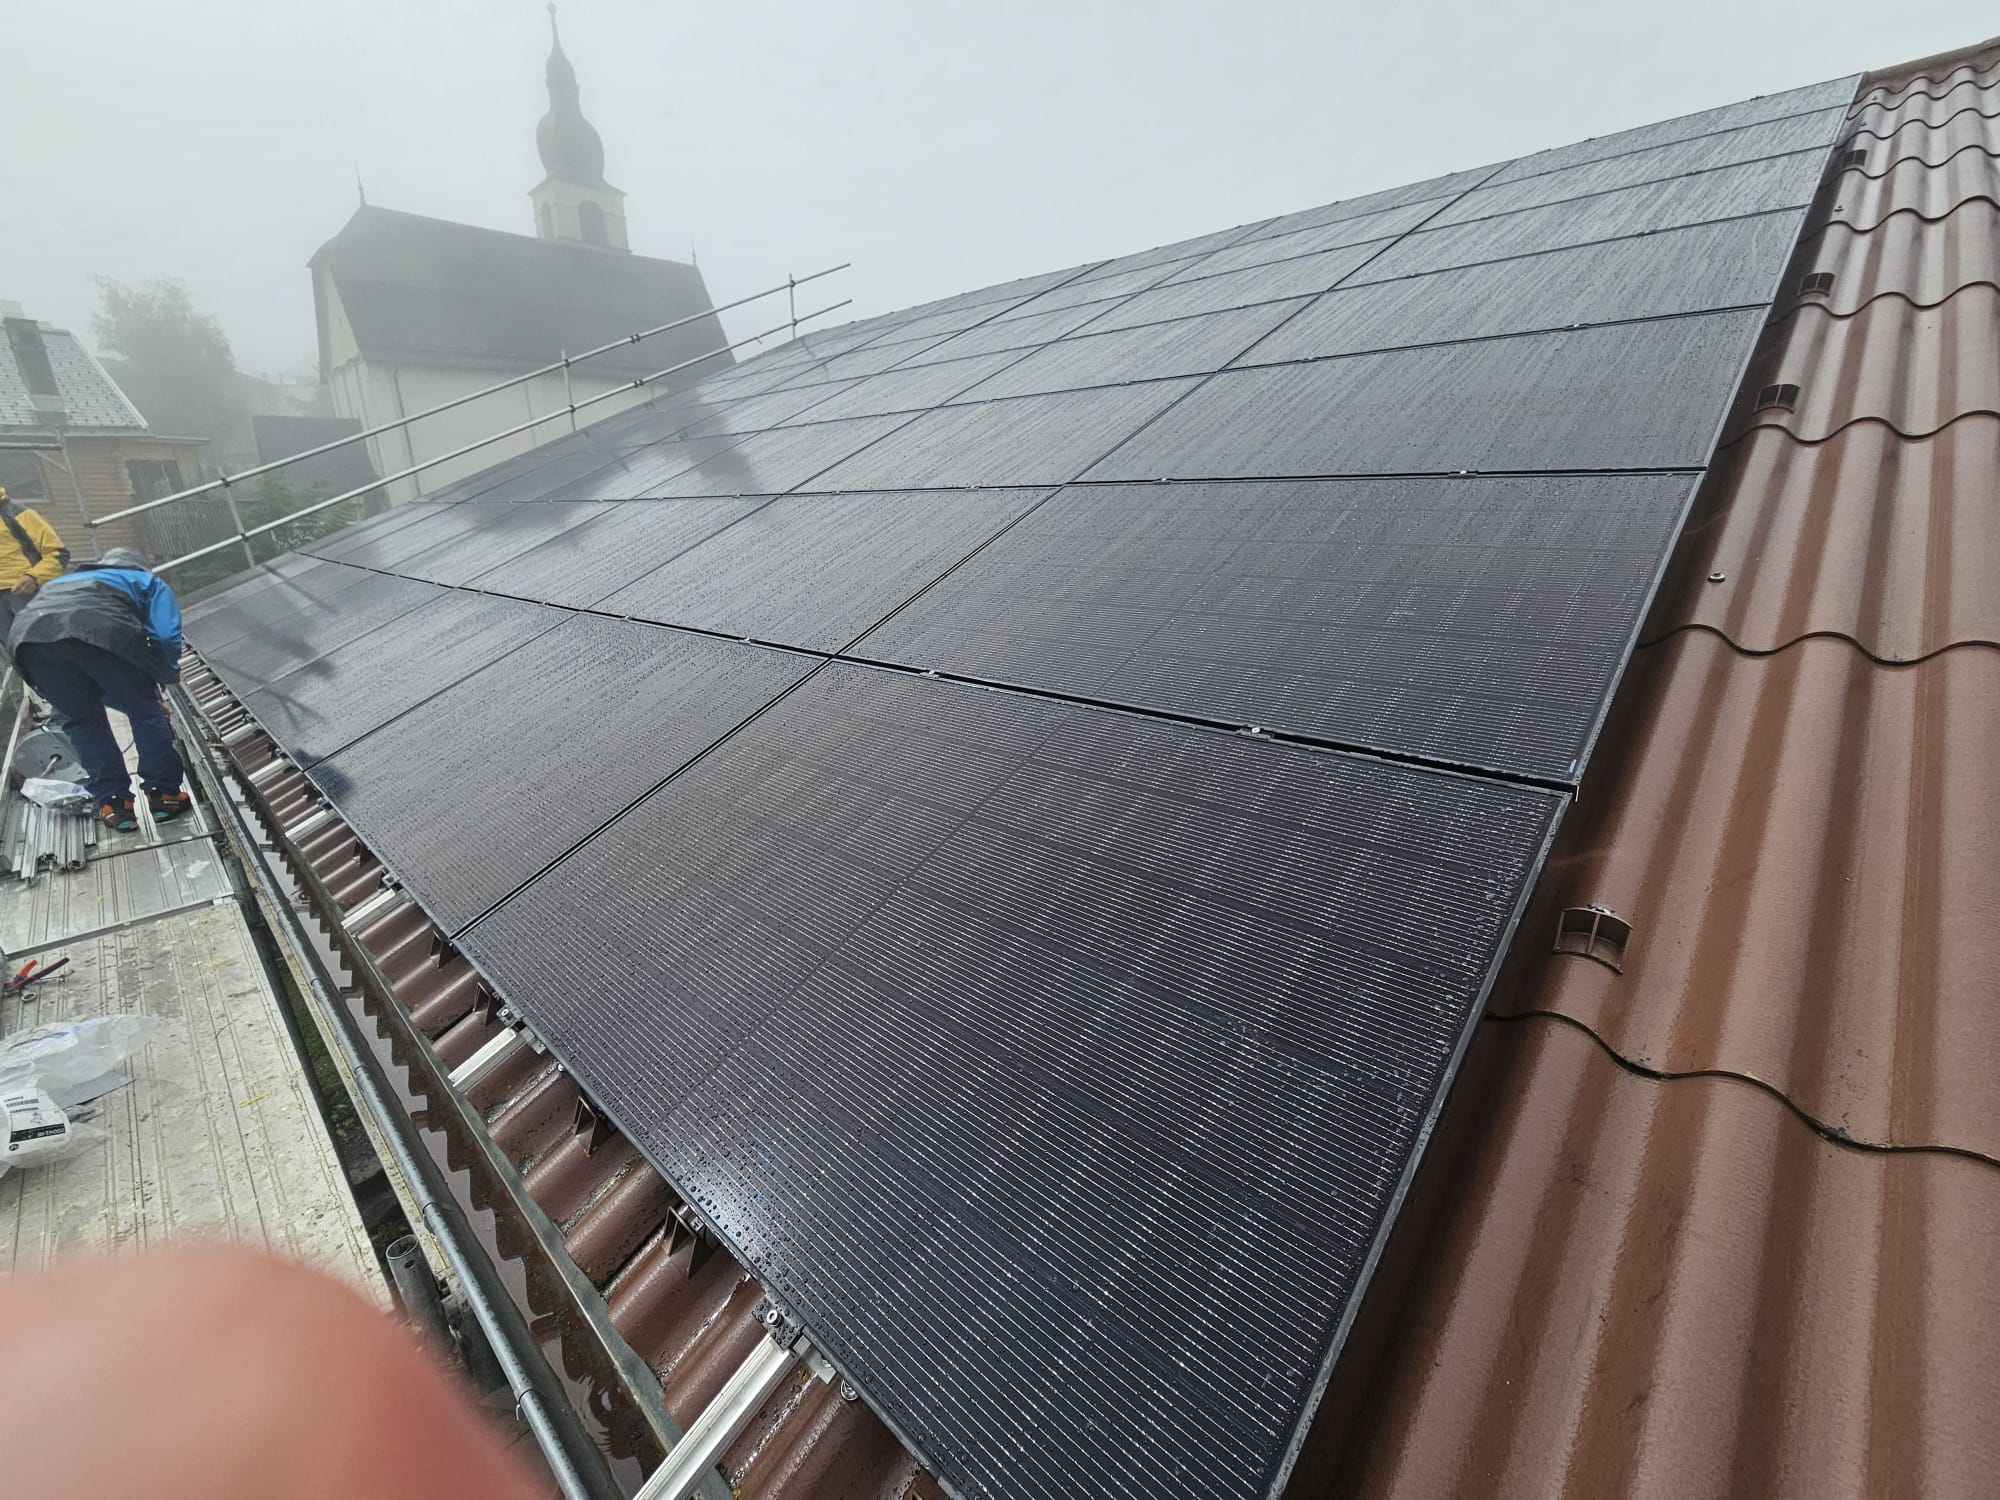
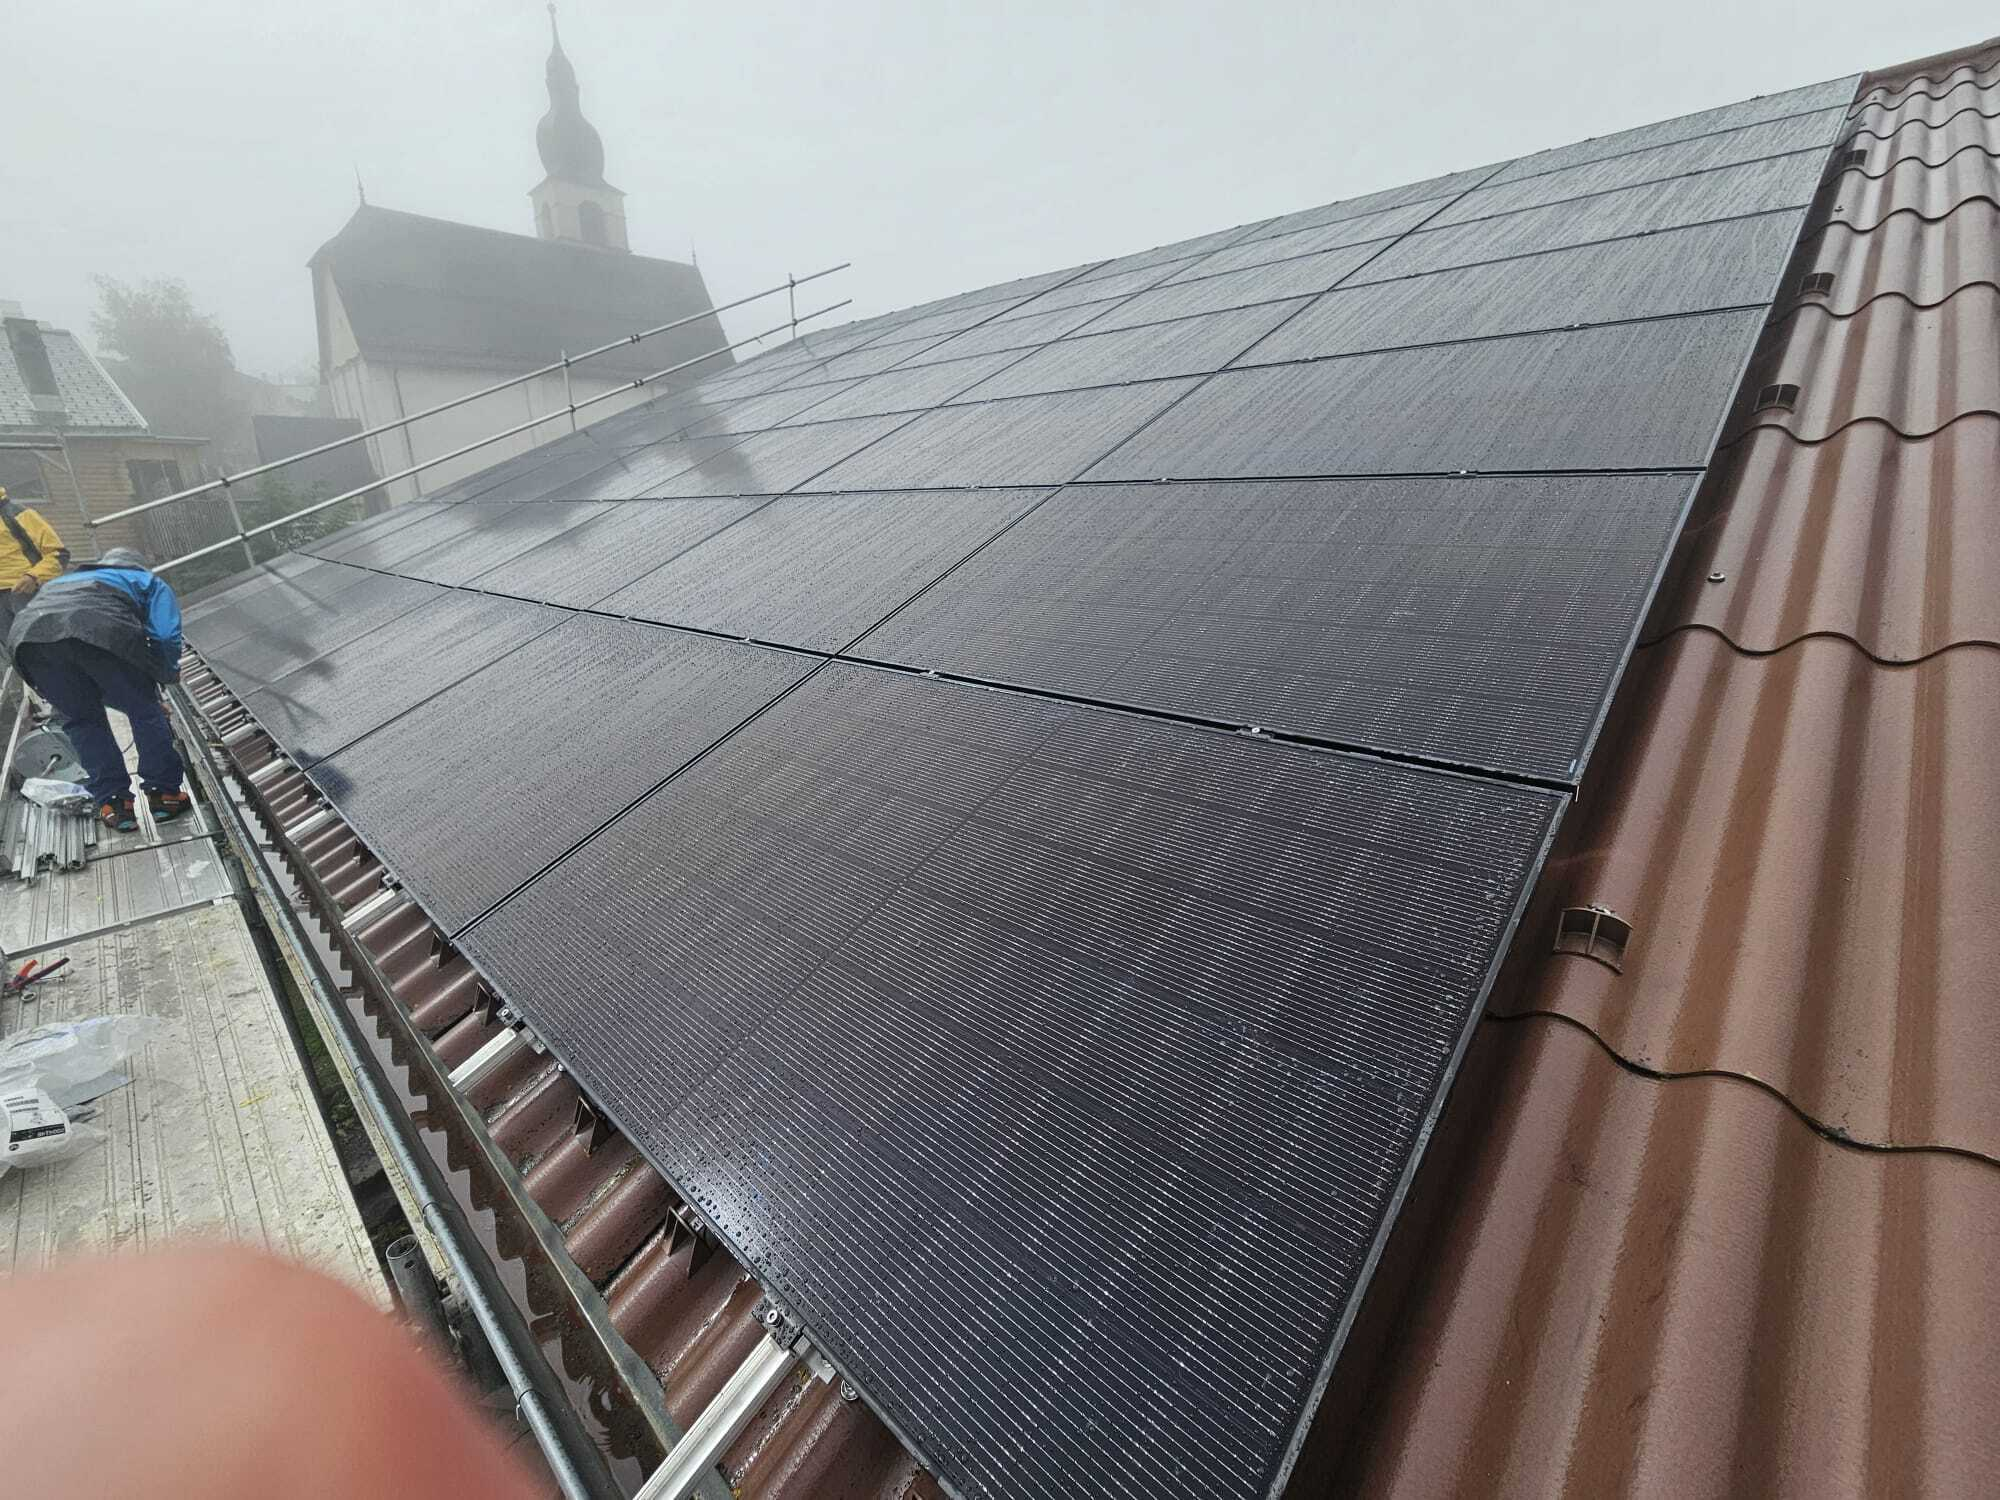
Fix: Image processing für alle Bilder
- projekt8-module.jpeg von progressive auf baseline JPEG konvertiert
- render-image.html: Keine Upscale-Versuche mehr bei kleinen Bildern

diff --git a/layouts/_default/_markup/render-image.html b/layouts/_default/_markup/render-image.html
@@ -16,18 +16,26 @@
 {{ $large := "" }}
 
 {{- with $img -}}
-{{ if eq $orientation 1 }}
-  {{- $large = $img.Resize "1200x" -}}
-  {{ $medium = $img.Resize "980x" -}}
-  {{ $small = $img.Resize "420x" -}}
-{{ else if eq $orientation 6 }}
-  {{- $large = $img.Resize "1200x r270" -}}
-  {{ $medium = $img.Resize "980x r270" -}}
-  {{ $small = $img.Resize "420x r270" -}}
+{{ $rotate := "" }}
+{{ if eq $orientation 6 }}
+  {{ $rotate = " r270" }}
 {{ else if eq $orientation 8 }}
-  {{- $large = $img.Resize "1200x r90" -}}
-  {{ $medium = $img.Resize "980x r90" -}}
-  {{ $small = $img.Resize "420x r90" -}}
+  {{ $rotate = " r90" }}
+{{ end }}
+{{ if ge $img.Width 1200 }}
+  {{- $large = $img.Resize (printf "1200x%s" $rotate) -}}
+{{ else }}
+  {{- $large = $img -}}
+{{ end }}
+{{ if ge $img.Width 980 }}
+  {{- $medium = $img.Resize (printf "980x%s" $rotate) -}}
+{{ else }}
+  {{- $medium = $img -}}
+{{ end }}
+{{ if ge $img.Width 420 }}
+  {{- $small = $img.Resize (printf "420x%s" $rotate) -}}
+{{ else }}
+  {{- $small = $img -}}
 {{ end }}
 
 <figure class="image-caption">
